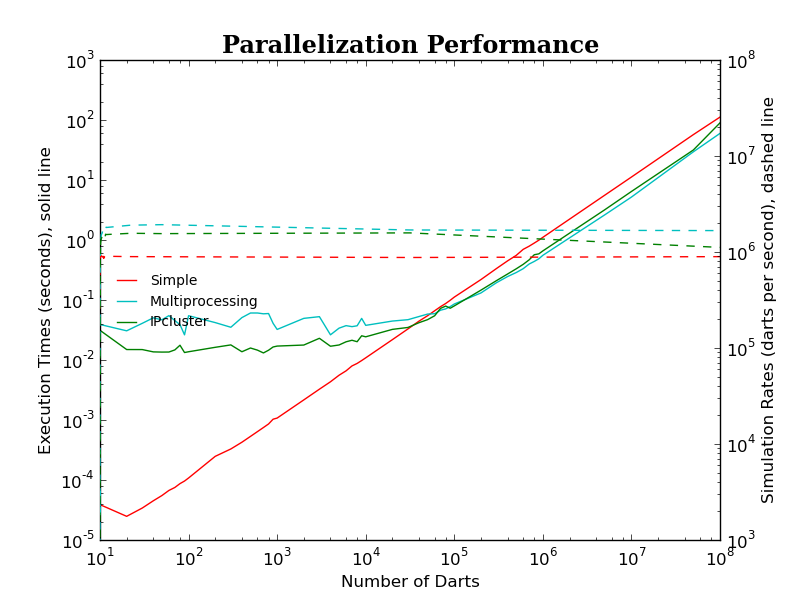
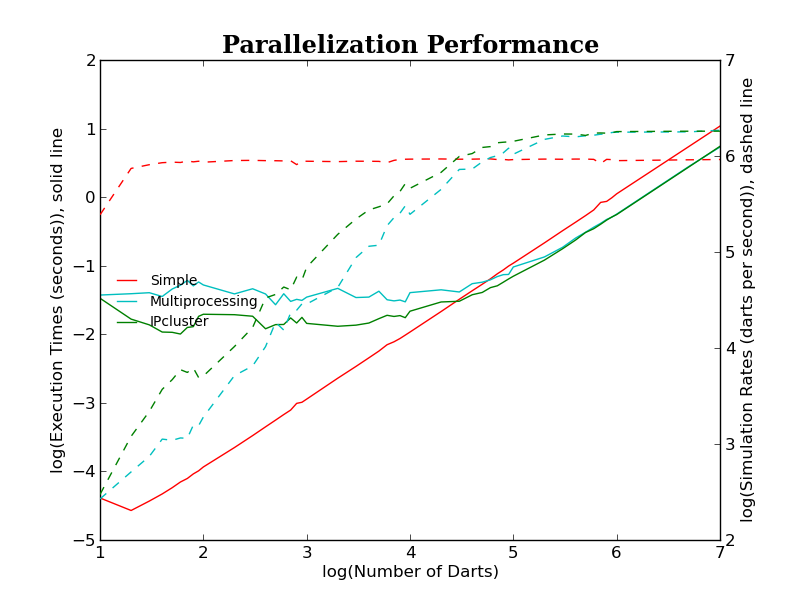
fixed graph scaling problem. code and README is all good now.

diff --git a/hw09-parallelization-cotterman/monte_carlo_parallelization.py b/hw09-parallelization-cotterman/monte_carlo_parallelization.py
@@ -152,31 +152,62 @@ def make_plots(num_darts_list, execution_times_simple, execution_times_multip, e
     simulation_rates_simple = []
     simulation_rates_multip = []
     simulation_rates_parallel = []
+
     print "num_darts_list: " , num_darts_list
+    print "length of num_darts_list: " , len(num_darts_list)
+    print "length of execution_times_simple: " , len(execution_times_simple)
+    print "length of execution_times_multip: " , len(execution_times_multip)
+    print "length of execution_times_parallel: " , len(execution_times_parallel)
+
 
     for i in range(len(num_darts_list)):
+        if num_darts_list[i] >= 100 and num_darts_list[i] <= 1000:
+            print "float(num_darts_list[i]/execution_times_simple[i] = " , float(num_darts_list[i]) , "/" , execution_times_simple[i]
+            print "= " ,  float(num_darts_list[i])/execution_times_simple[i] 
+            print "float(num_darts_list[i]/execution_times_multip[i] = " , float(num_darts_list[i]) , "/" , execution_times_multip[i]
+            print "= " ,  float(num_darts_list[i])/execution_times_multip[i] 
+            print "float(num_darts_list[i]/execution_times_parallel[i] = " , float(num_darts_list[i]) , "/" , execution_times_parallel[i]
+            print "= " ,  float(num_darts_list[i])/execution_times_parallel[i] 
         simulation_rates_simple.append( float(num_darts_list[i])/execution_times_simple[i] )
         simulation_rates_multip.append( float(num_darts_list[i])/execution_times_multip[i] )
         simulation_rates_parallel.append( float(num_darts_list[i])/execution_times_parallel[i] )
 
+    print "length of simulation_rates_simple: " , len(simulation_rates_simple)
+    print "length of simulation_rates_multip: " , len(simulation_rates_multip)
+    print "length of simulation_rates_parallel: " , len(simulation_rates_parallel)
+
     print "simulation_rates_simple: " , simulation_rates_simple
-    print "simulation_rates_multip: " , simulation_rates_multip
-    print "simulation_rates_parallel: " , simulation_rates_parallel
+    #print "simulation_rates_multip: " , simulation_rates_multip
+    #print "simulation_rates_parallel: " , simulation_rates_parallel
+
+    #manually switch everything to log scale
+
+    lnum_darts_list = [math.log(x,10) for x in num_darts_list]
+
+    lsimulation_rates_simple = [math.log(x,10) for x in simulation_rates_simple]
+    lsimulation_rates_multip = [math.log(x,10) for x in simulation_rates_multip]
+    lsimulation_rates_parallel = [math.log(x,10) for x in simulation_rates_parallel]
+
+    lexecution_times_simple = [math.log(x,10) for x in execution_times_simple]
+    lexecution_times_multip = [math.log(x,10) for x in execution_times_multip]
+    lexecution_times_parallel = [math.log(x,10) for x in execution_times_parallel]
+
+    print "log(simulation_rates_simple): " , lsimulation_rates_simple
 
     f, ax = plt.subplots()
-    lns1 = ax.plot(num_darts_list, execution_times_simple, 
+    lns1 = ax.plot(lnum_darts_list, lexecution_times_simple, 
                    label='Simple', color='r')
-    lns2 = ax.plot(num_darts_list, execution_times_multip, 
+    lns2 = ax.plot(lnum_darts_list, lexecution_times_multip, 
                    label='Multiprocessing', color='c')
-    lns3 = ax.plot(num_darts_list, execution_times_parallel,
+    lns3 = ax.plot(lnum_darts_list, lexecution_times_parallel,
                     label='IPcluster', color='g')
 
     ax2 = ax.twinx()
-    lns4 = ax2.plot(num_darts_list, simulation_rates_simple, linestyle='--', 
+    lns4 = ax2.plot(lnum_darts_list, lsimulation_rates_simple, linestyle='--', 
                     color='r')
-    lns5 = ax2.plot(num_darts_list, simulation_rates_multip, linestyle='--',
+    lns5 = ax2.plot(lnum_darts_list, lsimulation_rates_multip, linestyle='--',
                     color='c')
-    lns6 = ax2.plot(num_darts_list, simulation_rates_parallel, linestyle='--',
+    lns6 = ax2.plot(lnum_darts_list, lsimulation_rates_parallel, linestyle='--',
                     color='g')
                                    
     lns = lns1+lns2+lns3
@@ -184,16 +215,18 @@ def make_plots(num_darts_list, execution_times_simple, execution_times_multip, e
     ax.legend(lns, labs, loc='center left', frameon=False, fontsize='small')
 
     ax.set_title('Parallelization Performance', fontsize='x-large', fontname='serif', weight='semibold')
-    ax.set_xlabel('Number of Darts')
-    ax.set_ylabel('Execution Times (seconds), solid line')
-    ax2.set_ylabel('Simulation Rates (darts per second), dashed line')
+    ax.set_xlabel('log(Number of Darts)')
+    ax.set_ylabel('log(Execution Times (seconds)), solid line')
+    ax2.set_ylabel('log(Simulation Rates (darts per second)), dashed line')
+    ax2.set_yticks(range(2,8))
     
-    ax.set_xscale('log')
-    ax.set_yscale('log')
-    ax2.set_yscale('log')
-    ax2.set_ylim(10e1,10e6)
+    #ax.set_xlim(10,10000)
+    #ax.set_xscale('log')
+    #ax.set_yscale('log')
+    #ax2.set_yscale('log')
+    #ax2.set_ylim(10e1,10e6)
 
-    plt.savefig('parallelization_results_v3.png')
+    plt.savefig('parallelization_results_v2.png')
 
 
 def main():
@@ -212,7 +245,8 @@ def main():
                      range(100,1000,100)+\
                      range(1000,10000,1000)+\
                      range(int(1e4),int(1e5),int(1e4))+\
-                     range(int(1e5),int(1e6),int(1e5))
+                     range(int(1e5),int(1e6),int(1e5))+\
+                     [int(1e6),int(5e6),int(1e7)]
 
     #1) No parallelization
 
